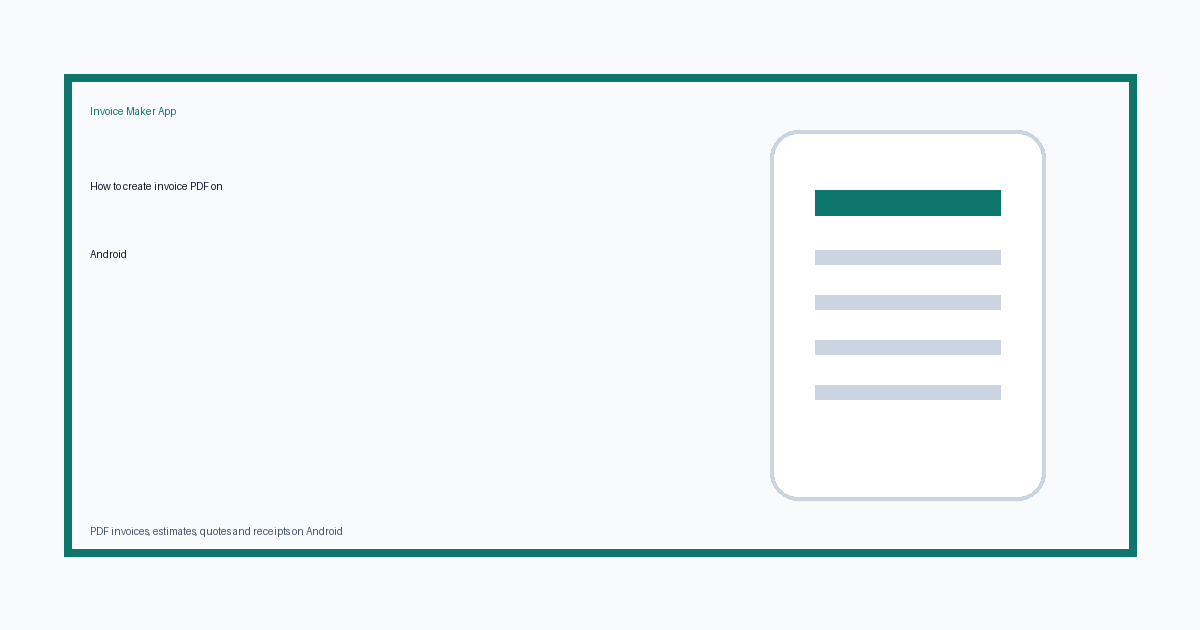
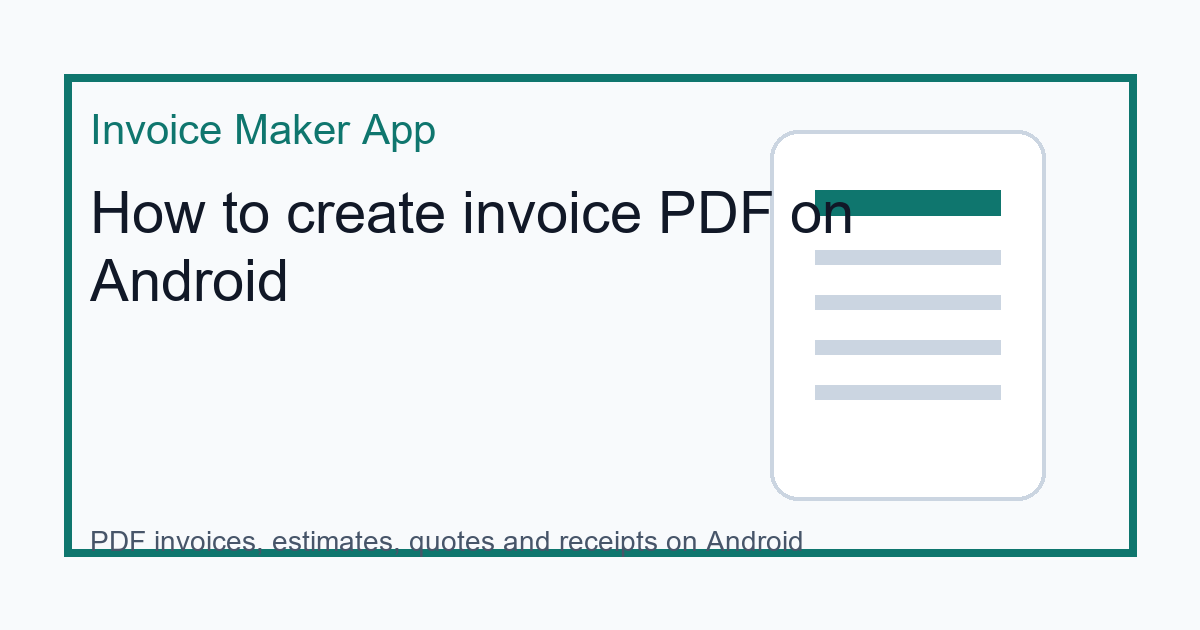
Publish article: How to create invoice PDF on Android

diff --git a/content/blog/2026-05-30-how-to-create-invoice-pdf-on-android.md b/content/blog/2026-05-30-how-to-create-invoice-pdf-on-android.md
@@ -3,7 +3,7 @@ title: How to create invoice PDF on Android
 description: Learn invoice PDF on Android with a practical Android PDF workflow for
   service businesses.
 date: '2026-05-30'
-draft: true
+draft: false
 tags:
 - invoice maker
 - Android invoice